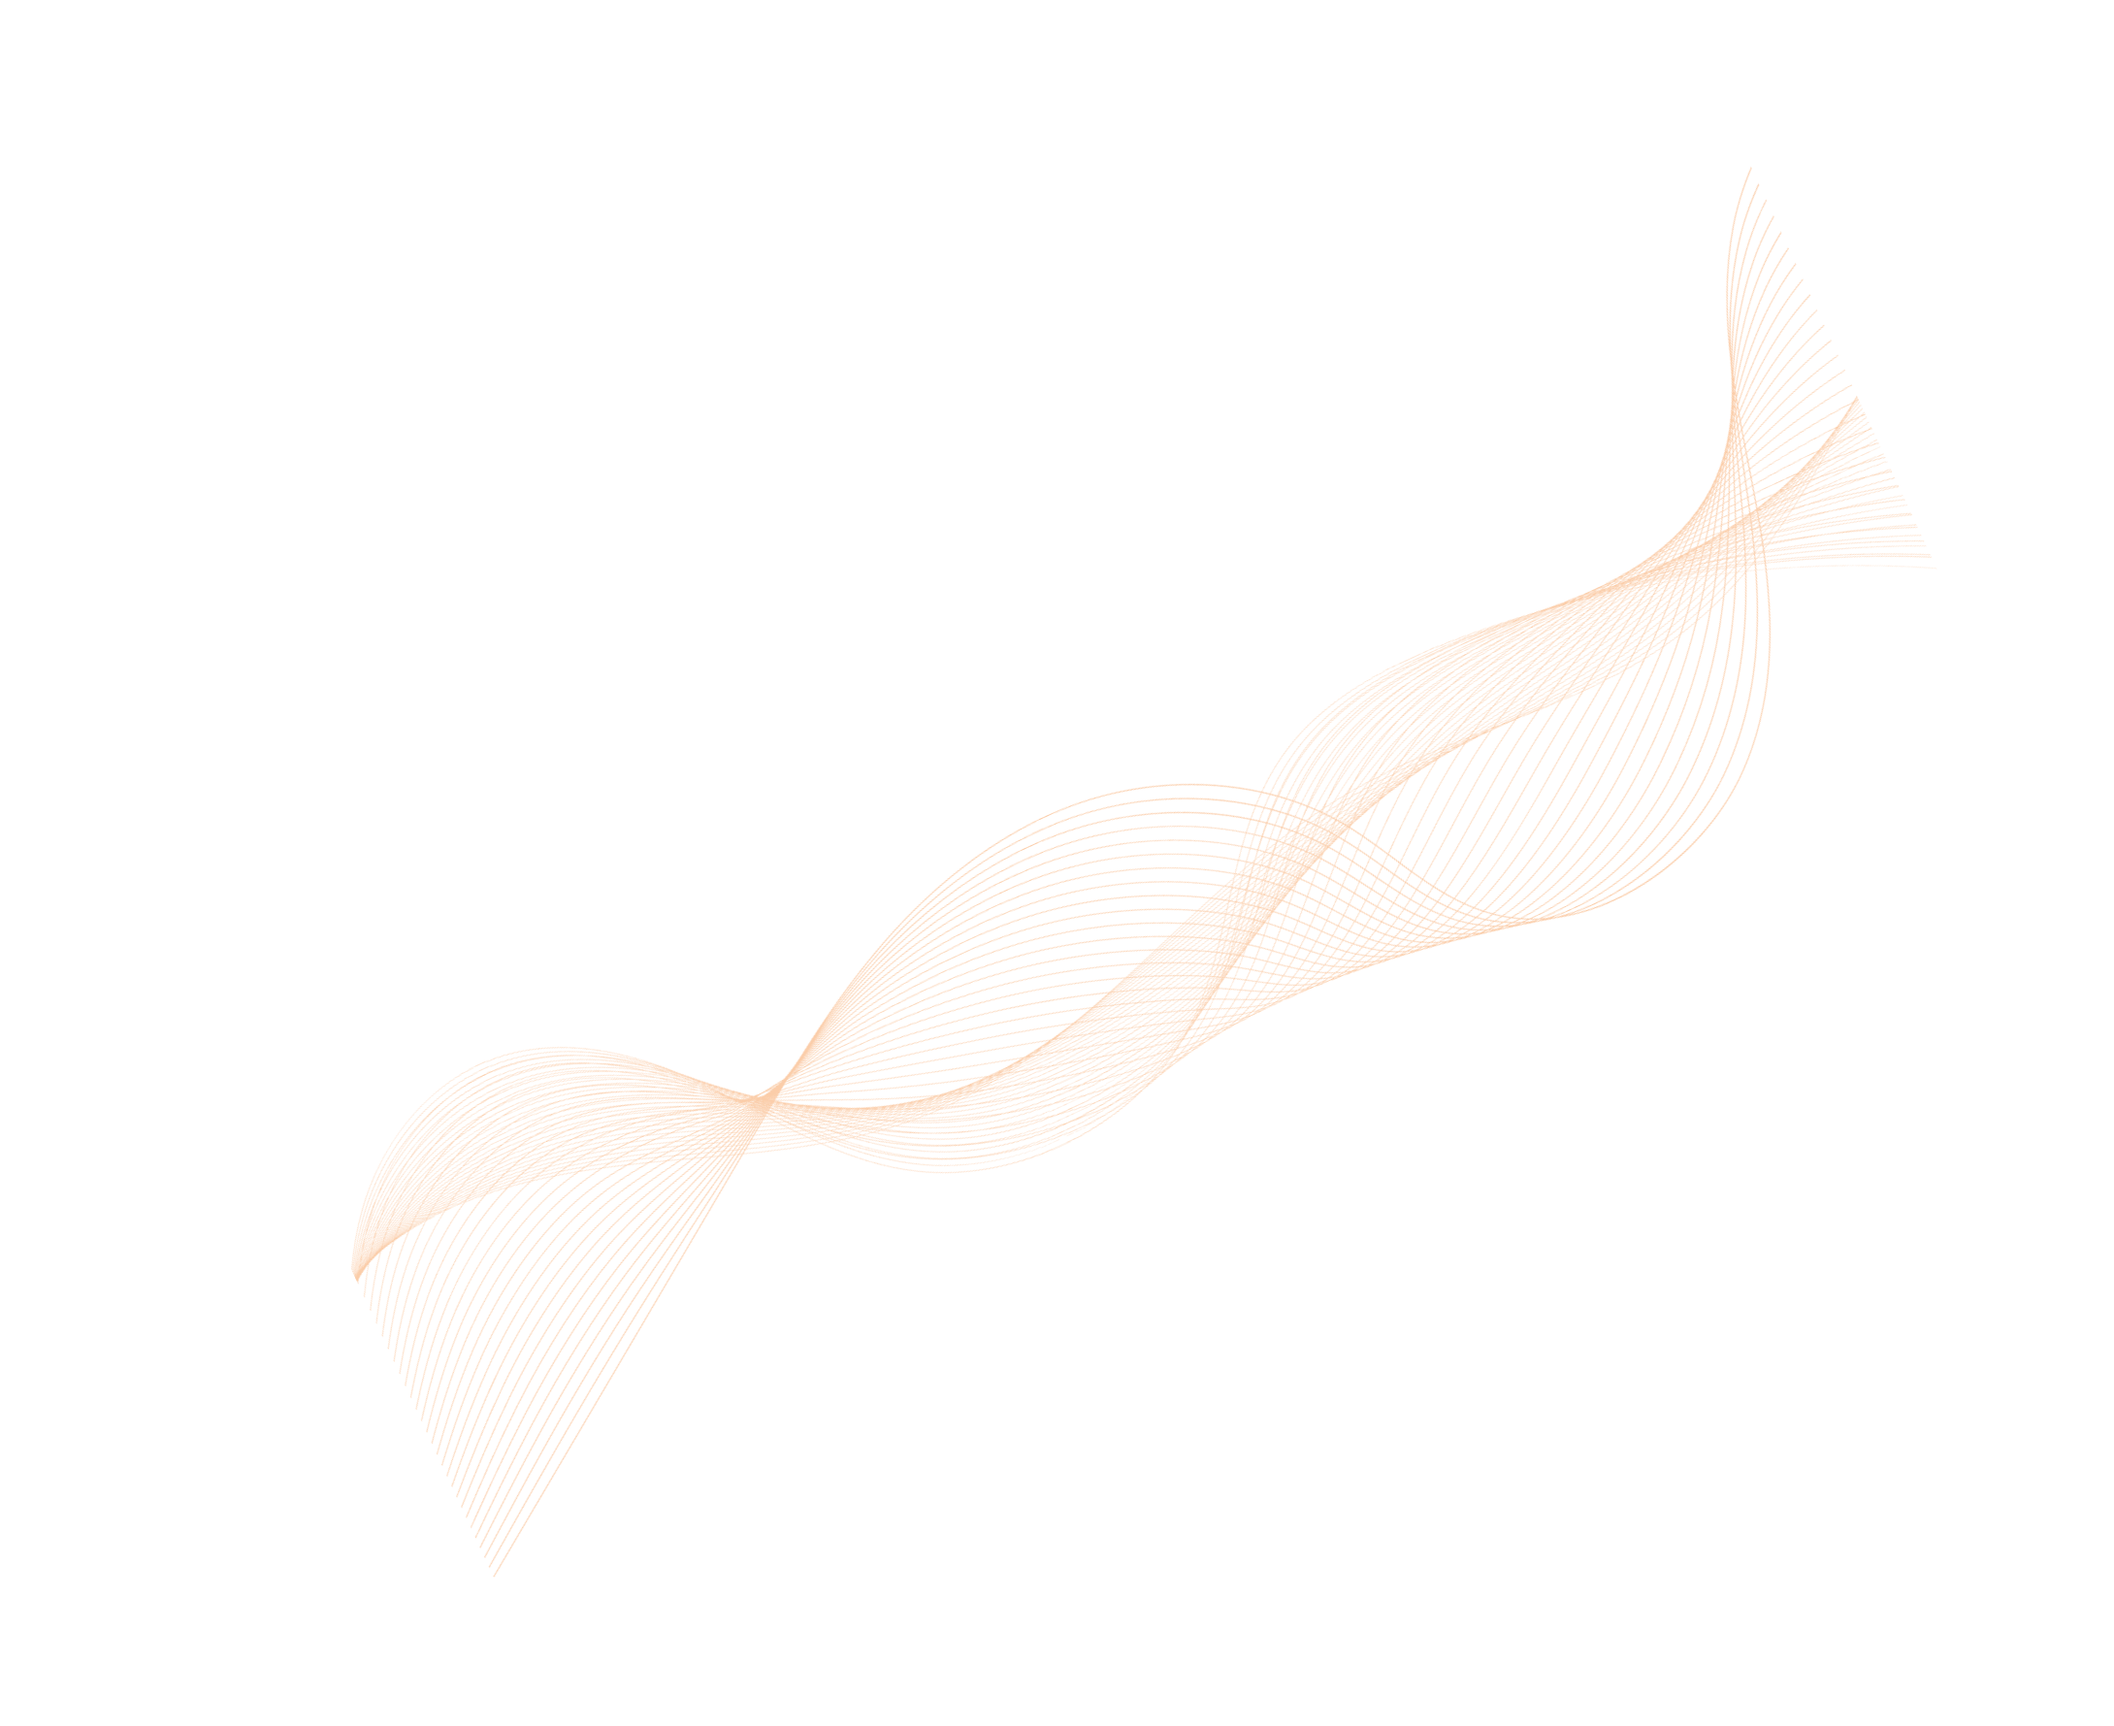
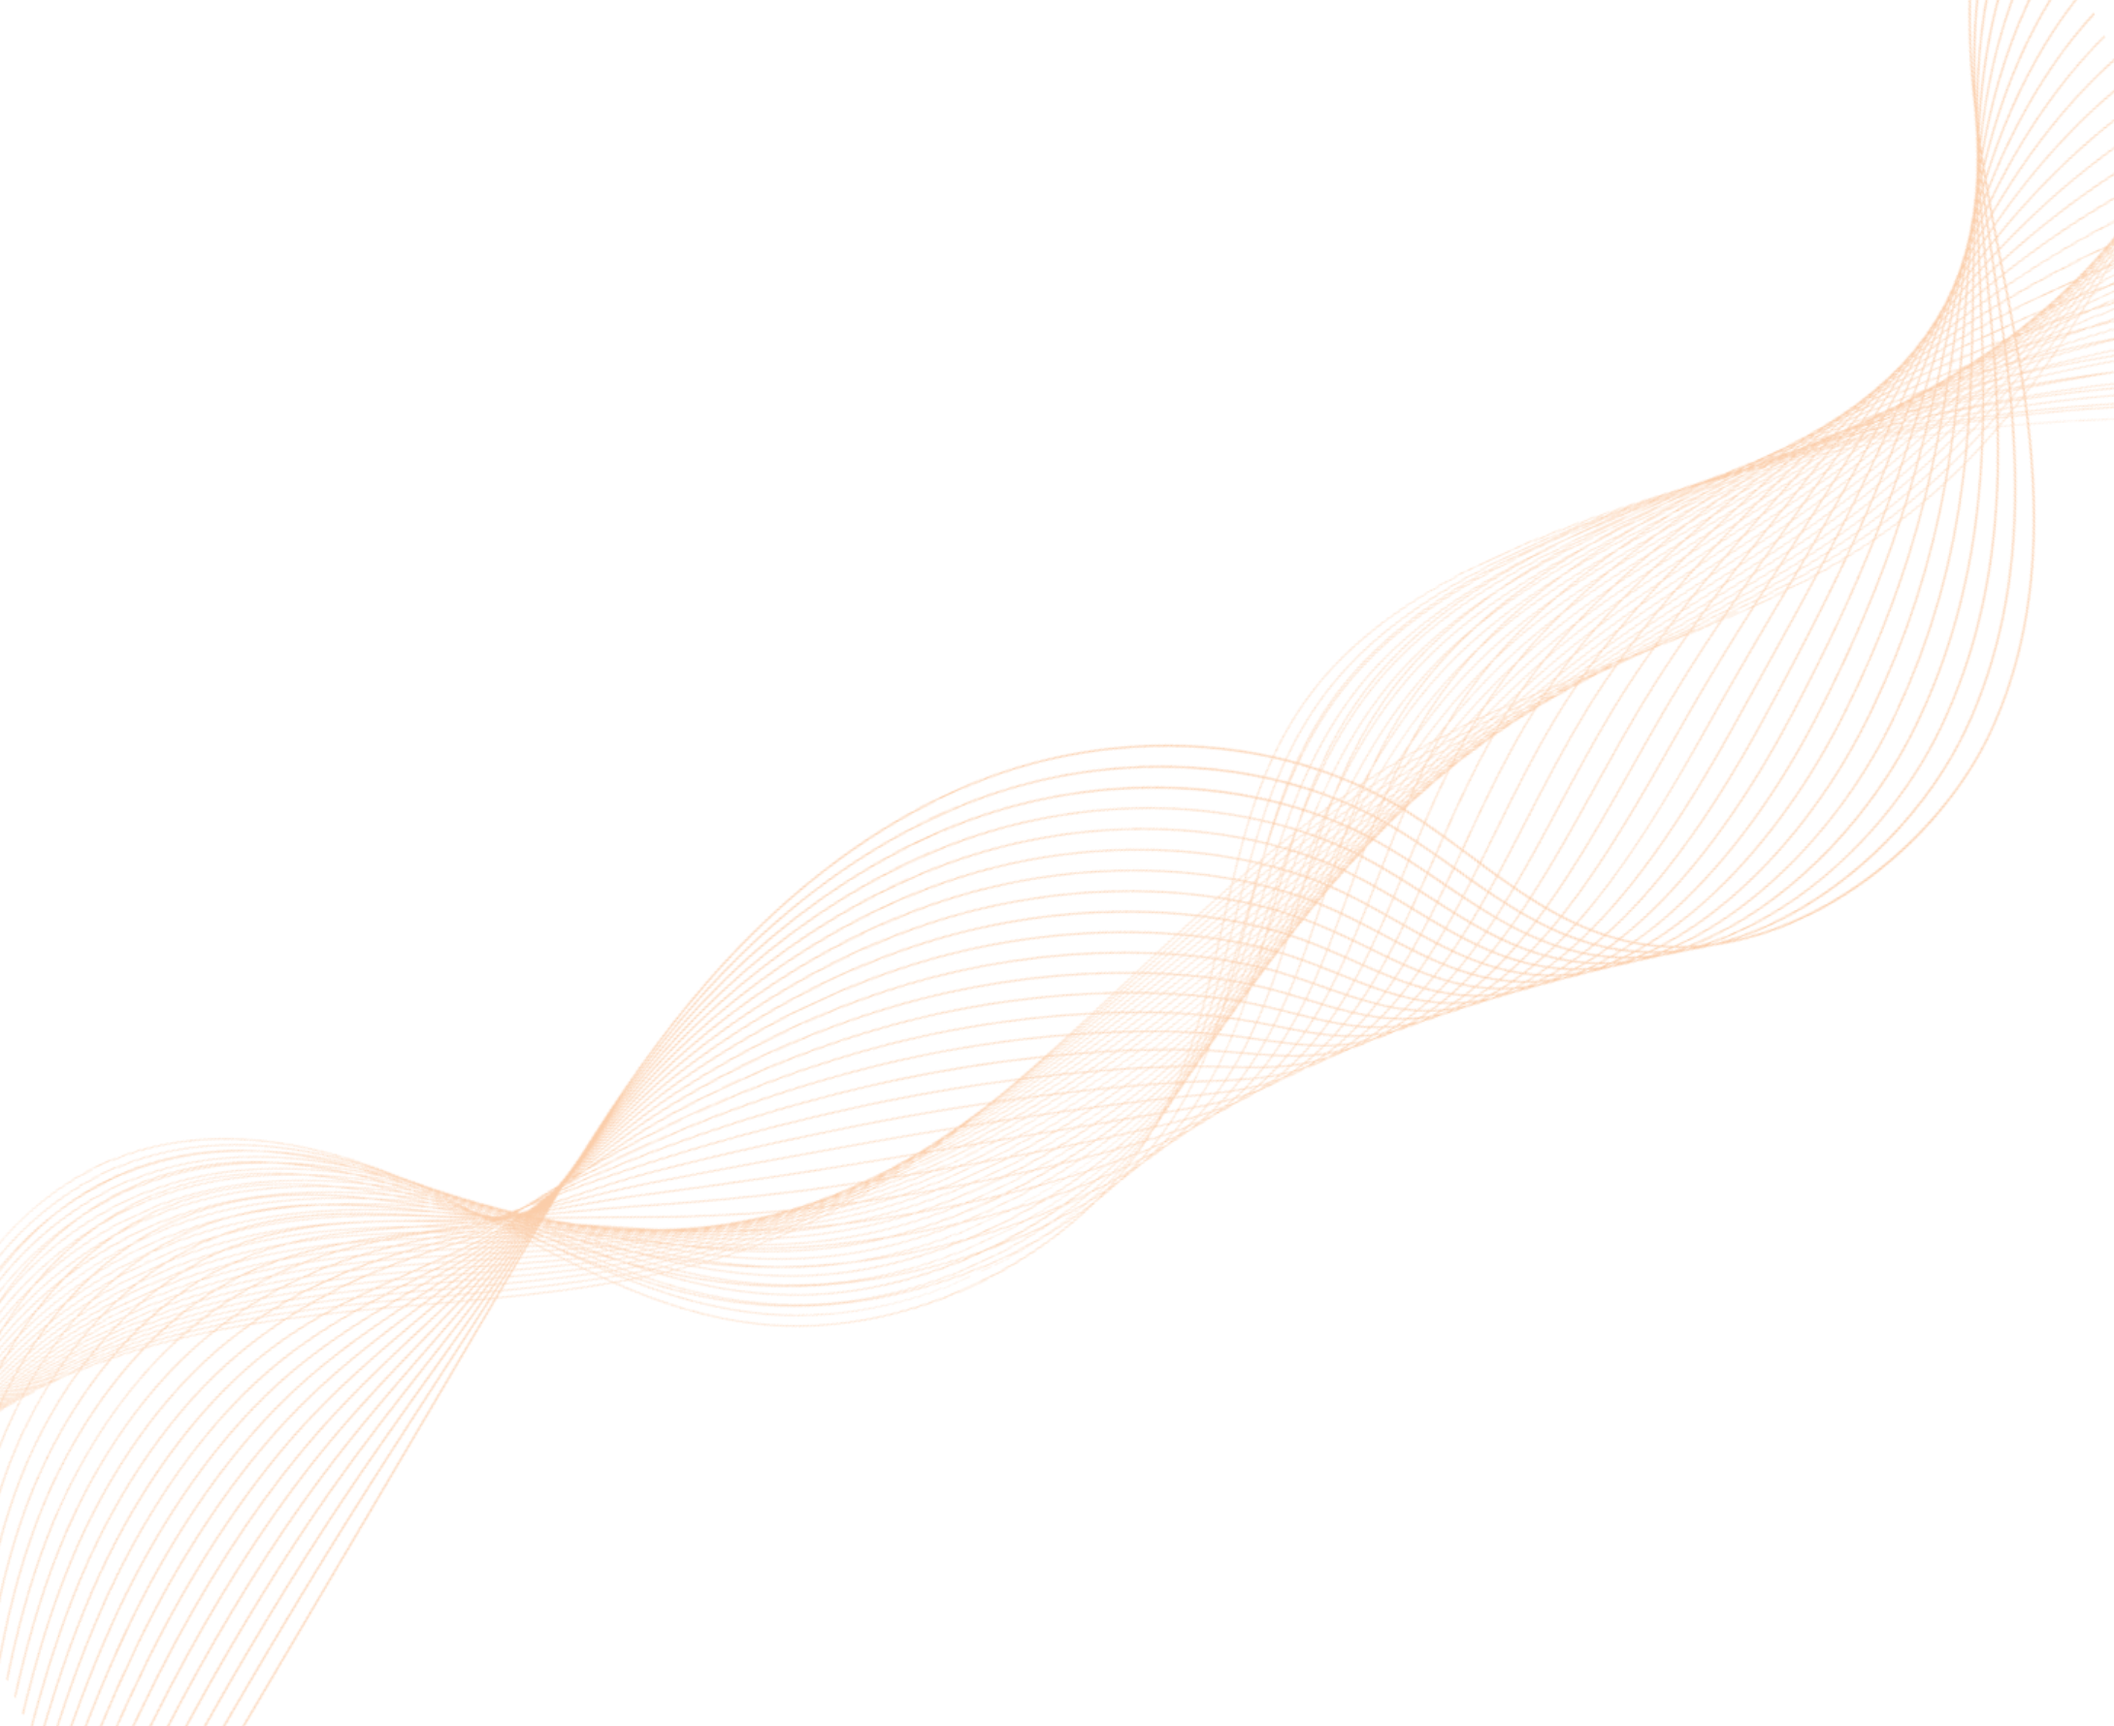
fix: Background image

Changed region(s): [[0.0, 0.0, 1.0, 1.0], [0.9986, 0.0309, 1.0, 0.0618]]

diff --git a/src/css/global.css b/src/css/global.css
@@ -2,26 +2,32 @@
   margin: 0;
   padding: 0;
   box-sizing: border-box;
+  color: var(--text-color);
+}
+
+:root {
+  --highlight-color: #ff9422;
+  --text-color: #fff;
+  --bg-color: #050402;
 }
 
 @font-face {
   font-family: "Oxanium";
-  src: url("../fonts/Oxanium/Oxanium-VariableFont_wght.ttf")
-    format("truetype");
+  src: url("../fonts/Oxanium/Oxanium-VariableFont_wght.ttf") format("truetype");
 }
+
 body {
-  background-color: #050402;
+  background-color: var(--bg-color);
   overflow: hidden;
 }
+
 .bg-image {
   position: absolute;
-  top: 0;
-  right: 0;
-  left: -100px;
-  width: 120%;
-  height: 120%;
+  width: 100%;
+  height: 100%;
   object-fit: cover;
 }
+
 .nav-bar {
   position: fixed;
   display: flex;
@@ -29,8 +35,9 @@ body {
   flex-direction: row;
   height: 74px;
   width: 100%;
-  background-color: #050402;
+  background-color: var(--bg-color);
 }
+
 .logo {
   display: flex;
   flex-direction: row;
@@ -41,14 +48,17 @@ body {
   padding-left: 128px;
   gap: 8px;
 }
+
 .heading {
-  color: #ff9422;
+  color: var(--highlight-color);
 }
+
 .sub-heading {
   padding-top: 18px;
-  color: white;
+  color: var(--text-color);
   font-size: 18px;
 }
+
 .navbar-link {
   display: flex;
   padding-top: 28px;
@@ -59,15 +69,18 @@ body {
   text-transform: uppercase;
   padding-right: 128px;
 }
+
 .navbar-link-home {
   text-decoration: none;
-  color: #ff9422;
+  color: var(--highlight-color);
 }
+
 .navbar-link-competition {
-  color: white;
+  color: var(--text-color);
   text-decoration: none;
 }
+
 .navbar-link-curricula {
-  color: white;
+  color: var(--text-color);
   text-decoration: none;
 }
